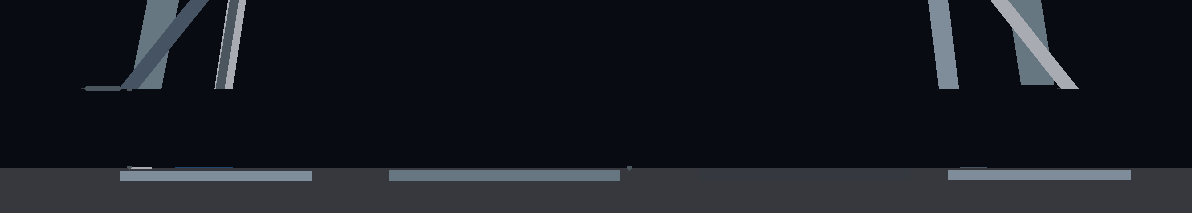
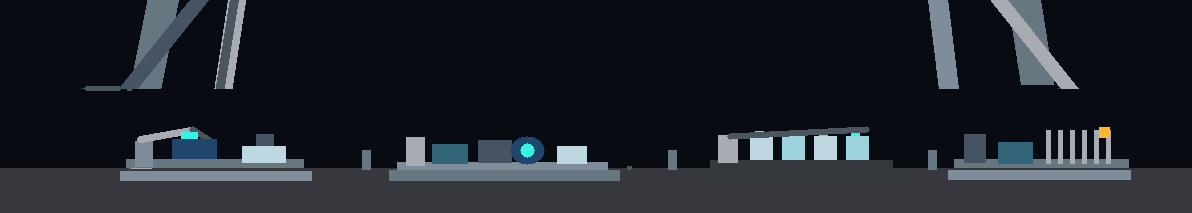
Sable Quoin R2: restore grounded physical understrata equipment and regenerate evidence

Changed region(s): [[0.5587, 0.5915, 0.9622, 0.7887], [0.0931, 0.5915, 0.5277, 0.8169]]

diff --git a/cybersand-canvases/2048x1024/original-scifi-frontier-wide-sable-quoin-gravitic-core-261120/README.md b/cybersand-canvases/2048x1024/original-scifi-frontier-wide-sable-quoin-gravitic-core-261120/README.md
@@ -18,15 +18,15 @@ Run `node build.cjs` within this folder to reproduce the committed `setup.json`,
 
 - Accepted CyberSand read-only main: `de109d0131641d6adc8d25bb9ced7ca3d4991105`.
 - Map repository default main at branch creation: `99a166e7fcae45eb22be1740e9f33f62faccbcc7`.
[4 lines of base64/hex data omitted]
 - Dimensions: **2048×1024 = 2,097,152 indexed material cells**.
-- Canonical lossless ordered disjoint edits: **5101**, Setup JSON **94864 bytes**, rectangle work **425394**.
-- Solids: **425394/425394 rooted**, **0 detached**, **1** final solid connected component(s).
+- Canonical lossless ordered disjoint edits: **5267**, Setup JSON **97979 bytes**, rectangle work **442895**.
+- Solids: **442895/442895 rooted**, **0 detached**, **1** final solid connected component(s).
 - All nonzero material IDs from accepted static inert solid/None catalogue; no unstable powder, mobile fluid, reactive support or free liquid.
 - Exact named checkpoints: **28/28** connected at all **19×15, 23×19, 31×27** collision envelopes with unshifted literal coordinates and complete in-bounds 4-neighbour free-centre BFS.
 - Literal physical obstruction **[1016,329,1074,416]** blocks **Core diagnostic viewport** and still permits 27/27 other destinations at conservative 31×27.
-- Source claims rectangle budget 32,768 / JSON cap 1,048,576 bytes / work 32,000,000; installed legacy CyberDemoBridge may permit only ~4,096 rectangles. **These 5101 rectangles require installed-capability revalidation.** Do not weaken design to meet unverified legacy capacity.
+- Source claims rectangle budget 32,768 / JSON cap 1,048,576 bytes / work 32,000,000; installed legacy CyberDemoBridge may permit only ~4,096 rectangles. **These 5267 rectangles require installed-capability revalidation.** Do not weaken design to meet unverified legacy capacity.
 - **NATIVE-UNTESTED:** no actual installed Godot/Workbench/CyberDemoBridge/Rapier actor play, collision, advancement, save/reopen or persistence was performed.
 
 ## Authentic images (indexed material IDs, no AI artwork)
